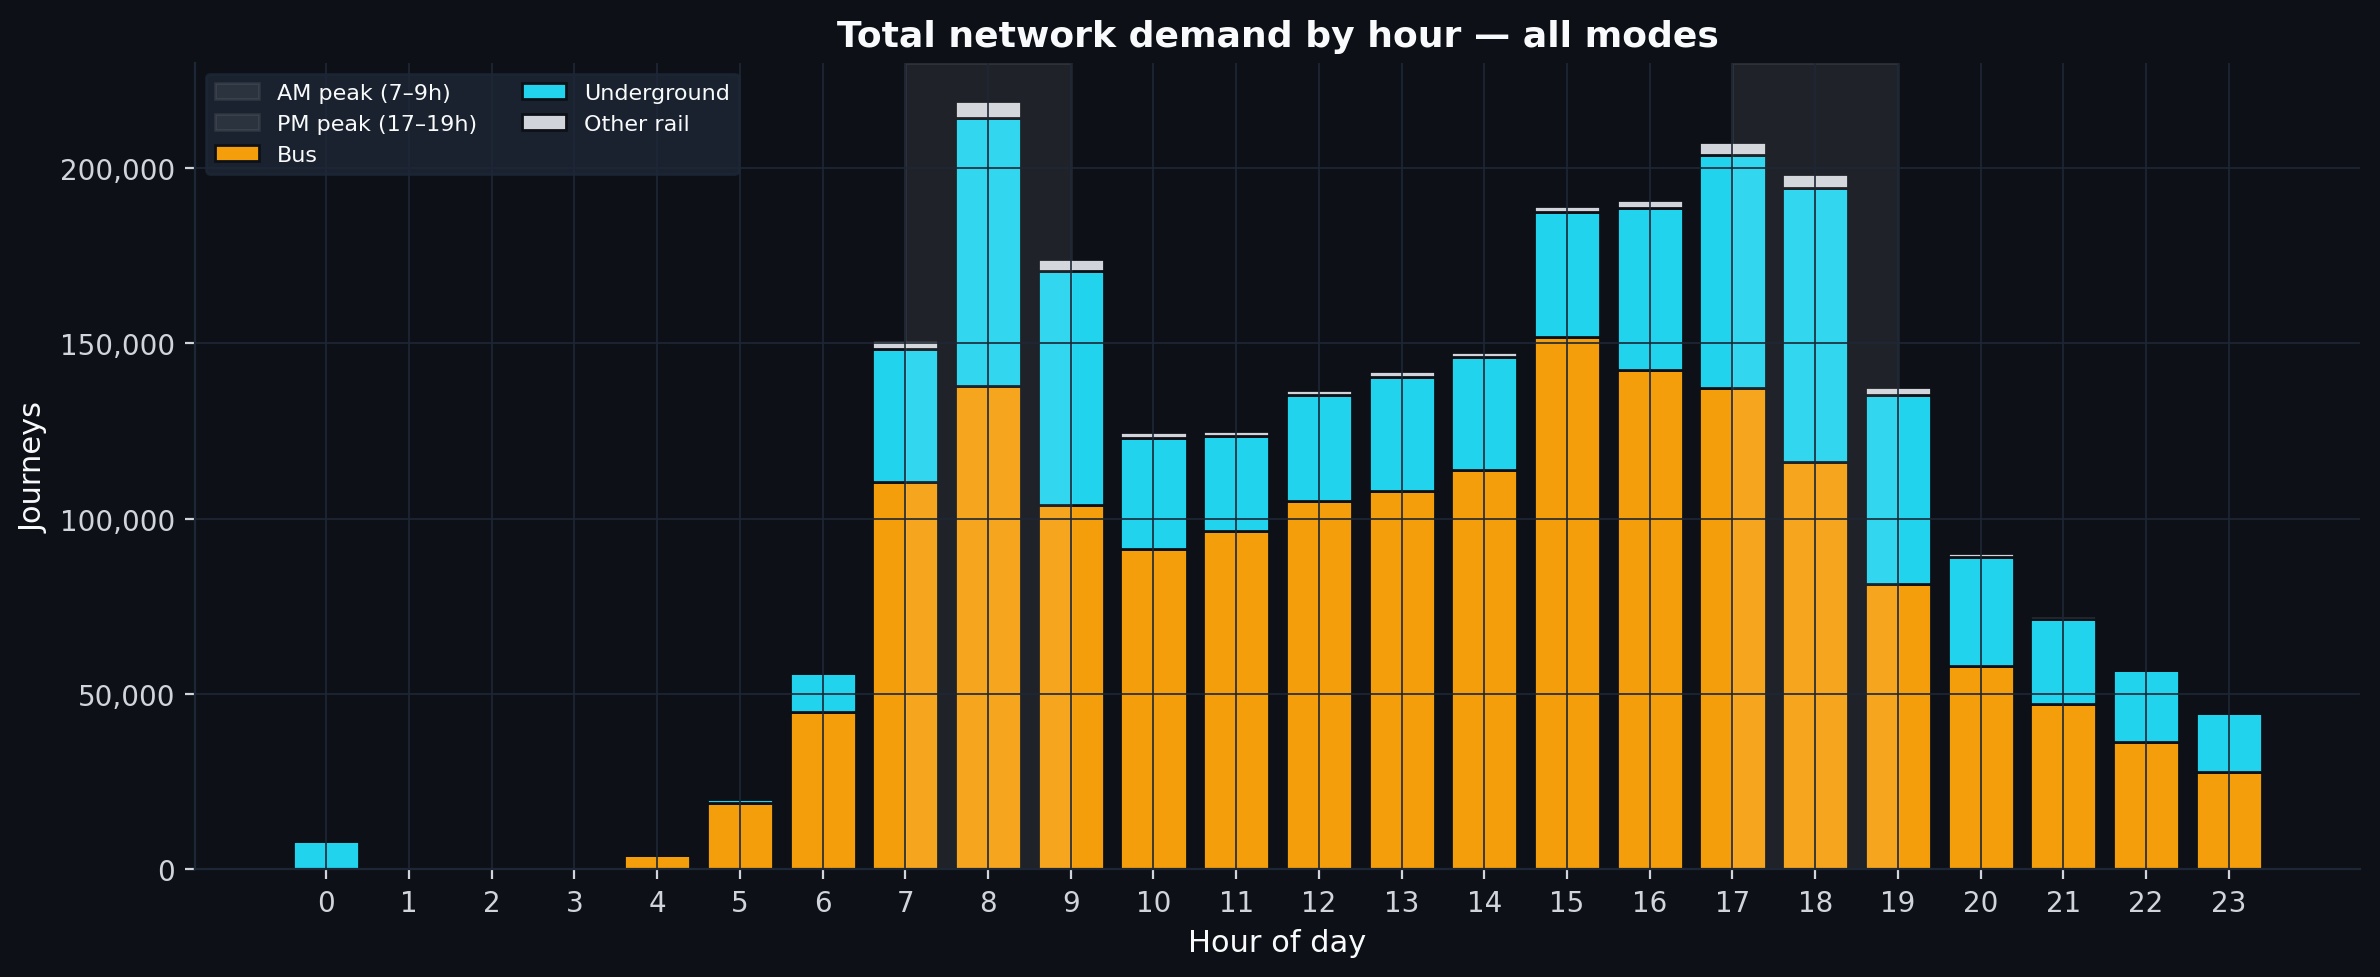
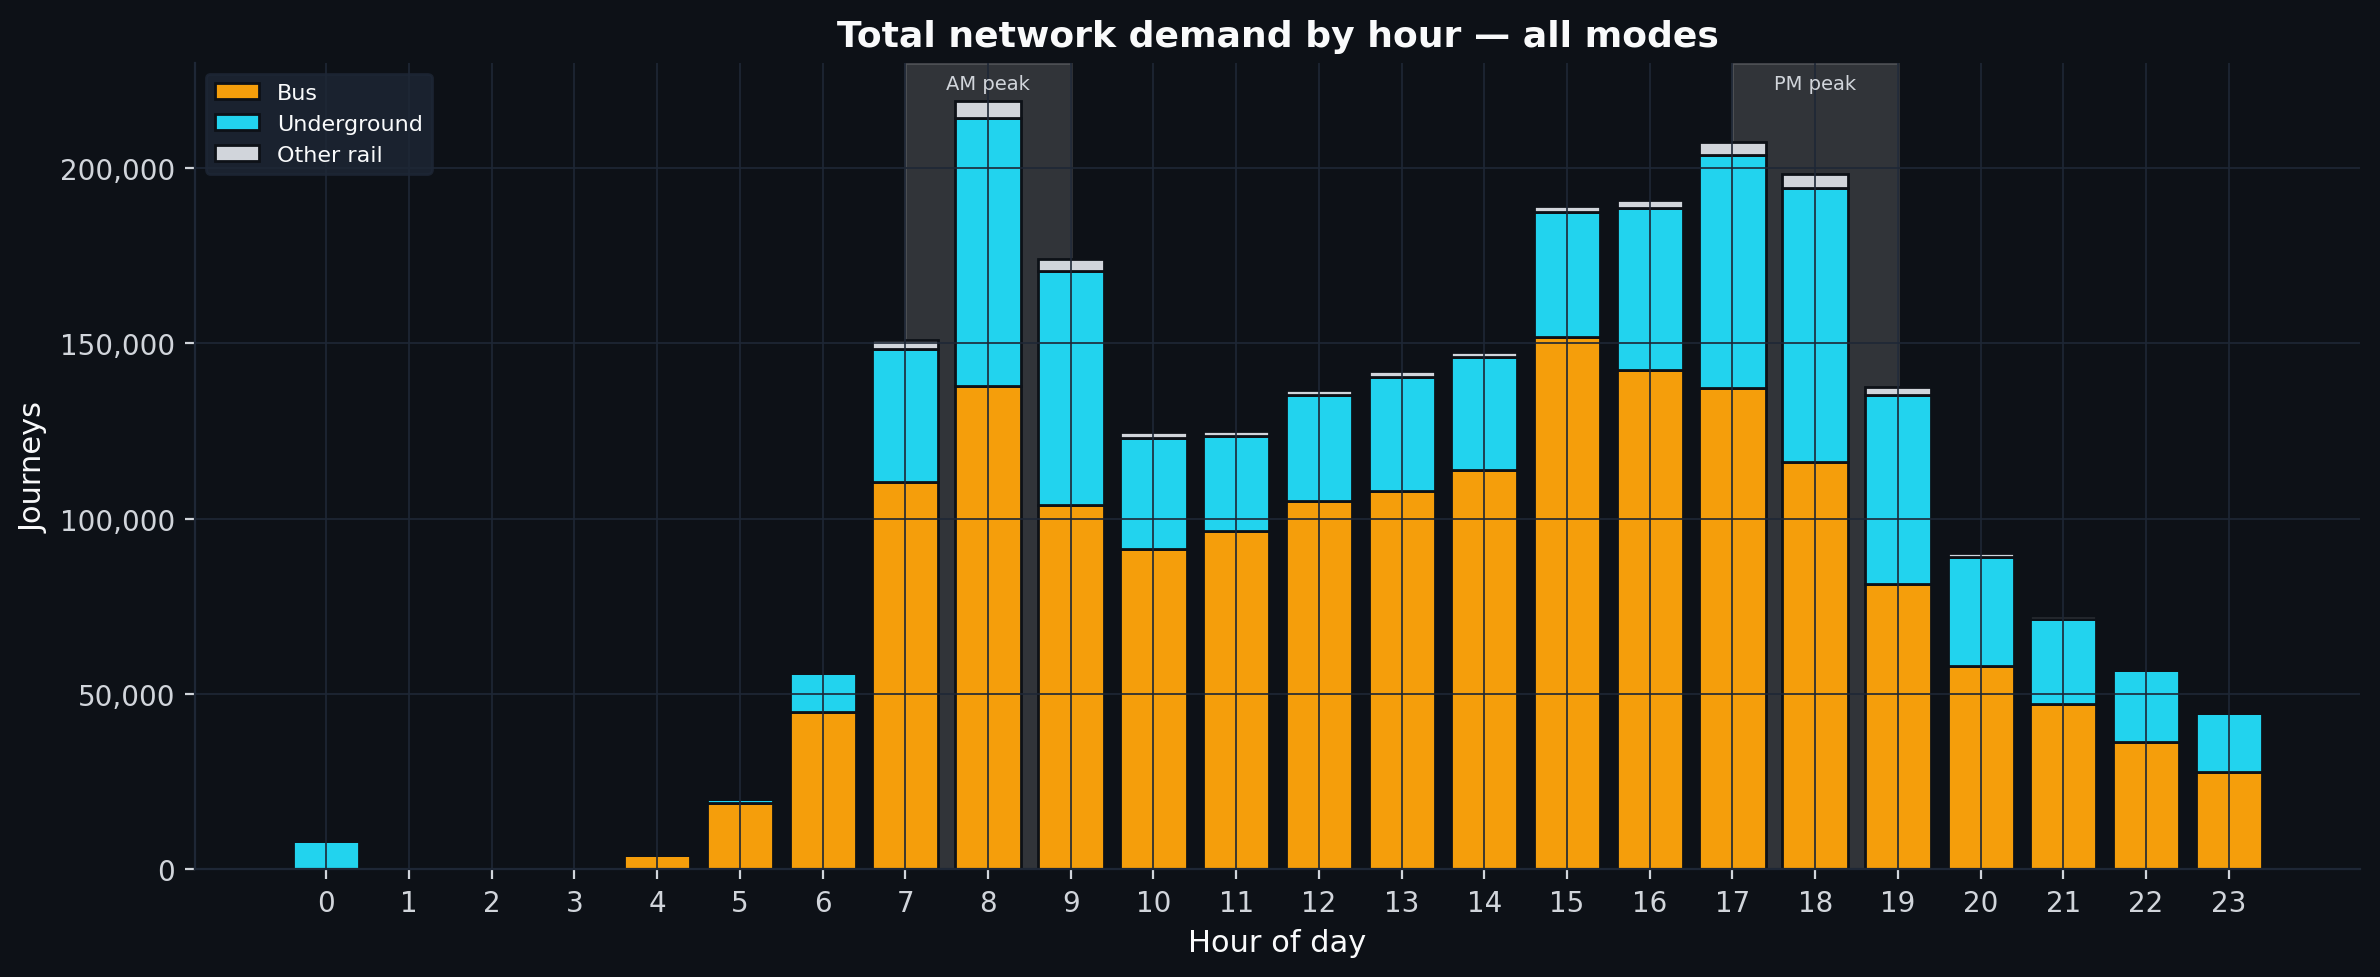
refactor: improve figures and reorganise station charts into step 03

diff --git a/scripts/03_feature_stations.py b/scripts/03_feature_stations.py
@@ -147,56 +147,38 @@ stations.to_csv(FEAT_PATH)
 print(f"\nSaved: {FEAT_PATH.relative_to(ROOT)}  ({len(stations)} rows)")
 
 # ---------------------------------------------------------------------------
-# 1. Top 20 stations by total demand
-# ---------------------------------------------------------------------------
-
-top20 = stations.nlargest(20, "total_demand").sort_values("total_demand")
-
-fig, ax = plt.subplots(figsize=(10, 7))
-bars = ax.barh(top20.index, top20["total_demand"], color=CYAN, height=0.7, edgecolor=BG)
-for bar, val in zip(bars, top20["total_demand"]):
-    ax.text(
-        val + top20["total_demand"].max() * 0.01,
-        bar.get_y() + bar.get_height() / 2,
-        f"{val:,}", va="center", ha="left", fontsize=8, color=FG,
-    )
-ax.set_title("Top 20 stations by total demand — rail / tube")
-ax.set_xlabel("Total journeys (departures + arrivals)")
-ax.xaxis.set_major_formatter(mticker.FuncFormatter(lambda x, _: f"{int(x):,}"))
-ax.set_xlim(0, top20["total_demand"].max() * 1.18)
-fig.tight_layout()
-fig.savefig(FIGURES_DIR / "journey_station_top20.png", dpi=200, bbox_inches="tight", facecolor=BG)
-plt.close(fig)
-print("Saved: journey_station_top20.png")
-
-# ---------------------------------------------------------------------------
-# 2. AM peak departures vs PM peak arrivals — commuter flow scatter
+# 1. AM peak departures vs PM peak arrivals — commuter flow scatter
 # ---------------------------------------------------------------------------
 
 # Only stations with enough demand to be meaningful
 active = stations[stations["total_demand"] >= 200].copy()
 
-# Label the four quadrants
-q_dep = active["am_peak_departures"].median()
-q_arr = active["pm_peak_arrivals"].median()
+# Bubble size scaled to total demand
+size_min, size_max = 20, 600
+d = active["total_demand"]
+active["dot_size"] = size_min + (d - d.min()) / (d.max() - d.min()) * (size_max - size_min)
 
-fig, ax = plt.subplots(figsize=(9, 8))
+lim = max(active["am_peak_departures"].max(), active["pm_peak_arrivals"].max()) * 1.1
+
+fig, ax = plt.subplots(figsize=(9, 9))
+
 ax.scatter(
     active["am_peak_departures"], active["pm_peak_arrivals"],
-    c=active["total_demand"], cmap="YlOrRd",
-    s=30, alpha=0.8, zorder=3, edgecolors="none",
+    c=CYAN, s=active["dot_size"],
+    alpha=0.6, zorder=3, edgecolors=BG, linewidths=0.4,
 )
 
-# label top 15 by total demand
-top_labels = active.nlargest(15, "total_demand")
-for stn, row in top_labels.iterrows():
+# Diagonal reference line (y = x → symmetric AM/PM flow)
+ax.plot([0, lim], [0, lim], color=FAINT, linewidth=1, linestyle="--", zorder=2)
+
+# Labels for top 20 stations by total demand
+for stn, row in active.nlargest(20, "total_demand").iterrows():
     ax.annotate(stn, xy=(row["am_peak_departures"], row["pm_peak_arrivals"]),
                 xytext=(5, 3), textcoords="offset points", fontsize=7, color=FG)
 
-ax.axvline(q_dep, color=FAINT, linewidth=0.8, linestyle="--")
-ax.axhline(q_arr, color=FAINT, linewidth=0.8, linestyle="--")
-
-ax.set_title("AM peak departures vs PM peak arrivals\n(stations with ≥ 200 total journeys)")
+ax.set_xlim(0, lim)
+ax.set_ylim(0, lim)
+ax.set_title("AM peak departures vs PM peak arrivals\n(bubble size = total demand)")
 ax.set_xlabel("AM peak departures")
 ax.set_ylabel("PM peak arrivals")
 ax.xaxis.set_major_formatter(mticker.FuncFormatter(lambda x, _: f"{int(x):,}"))
@@ -207,7 +189,7 @@ plt.close(fig)
 print("Saved: journey_station_am_pm_scatter.png")
 
 # ---------------------------------------------------------------------------
-# 3. Peak ratio distribution
+# 2. Peak ratio distribution
 # ---------------------------------------------------------------------------
 
 pr = stations["peak_ratio"].dropna()
@@ -227,38 +209,66 @@ plt.close(fig)
 print("Saved: journey_station_peak_ratio.png")
 
 # ---------------------------------------------------------------------------
-# 4. Mode share — top 20 stations stacked bars
+# 3. Station imbalance scatter — total departures vs total arrivals
 # ---------------------------------------------------------------------------
 
-share_cols = [f"mode_share_{m.lower().replace(' ', '_')}" for m in MODES
-              if f"mode_share_{m.lower().replace(' ', '_')}" in stations.columns]
+top_origins      = rail["StartStn"].value_counts().head(20)
+top_destinations = rail["EndStation"].value_counts().head(20)
+top_stns         = top_origins.index.union(top_destinations.index)
 
-top20_share = stations.nlargest(20, "total_demand").sort_values("total_demand")
-share_data  = top20_share[share_cols].copy()
-share_data.columns = [c.replace("mode_share_", "").replace("_", " ").title()
-                      for c in share_data.columns]
+stn_df = pd.DataFrame({
+    "departures": top_origins.reindex(top_stns, fill_value=0),
+    "arrivals":   top_destinations.reindex(top_stns, fill_value=0),
+})
 
-fig, ax = plt.subplots(figsize=(10, 7))
-bottom = np.zeros(len(share_data))
+lim = max(stn_df["departures"].max(), stn_df["arrivals"].max()) * 1.05
 
-for col in share_data.columns:
-    raw_key = col.lower().replace(" ", "_")
-    # match back to original mode name for colour lookup
-    mode_key = next((m for m in MODES if m.lower().replace(" ", "_") == raw_key), None)
-    color = MODE_COLORS.get(mode_key, FAINT) if mode_key else FAINT
-    vals = share_data[col].values
-    ax.barh(share_data.index, vals, left=bottom,
-            color=color, edgecolor=BG, height=0.7, label=col)
-    bottom += vals
-
-ax.set_title("Mode share — top 20 stations by total demand")
-ax.set_xlabel("Share of departures")
-ax.xaxis.set_major_formatter(mticker.FuncFormatter(lambda x, _: f"{x:.0%}"))
-ax.legend(fontsize=8, bbox_to_anchor=(1.01, 1), loc="upper left", borderaxespad=0)
+fig, ax = plt.subplots(figsize=(8, 8))
+ax.scatter(stn_df["departures"], stn_df["arrivals"], color=CYAN, s=60, zorder=3)
+ax.plot([0, lim], [0, lim], color=FAINT, linewidth=1, linestyle="--", zorder=2)
+for stn, row in stn_df.iterrows():
+    ax.annotate(stn, xy=(row["departures"], row["arrivals"]),
+                xytext=(5, 3), textcoords="offset points", fontsize=7, color=FG)
+ax.set_xlim(0, lim)
+ax.set_ylim(0, lim)
+ax.set_title("Departures vs arrivals — rail / tube (top stations)")
+ax.set_xlabel("Departures")
+ax.set_ylabel("Arrivals")
+ax.xaxis.set_major_formatter(mticker.FuncFormatter(lambda x, _: f"{int(x):,}"))
+ax.yaxis.set_major_formatter(mticker.FuncFormatter(lambda x, _: f"{int(x):,}"))
 fig.tight_layout()
-fig.savefig(FIGURES_DIR / "journey_station_mode_share.png", dpi=200, bbox_inches="tight", facecolor=BG)
+fig.savefig(FIGURES_DIR / "journey_station_imbalance_scatter.png", dpi=200, bbox_inches="tight", facecolor=BG)
 plt.close(fig)
-print("Saved: journey_station_mode_share.png")
+print("Saved: journey_station_imbalance_scatter.png")
+
+# ---------------------------------------------------------------------------
+# 4. Station imbalance bars — grouped departures vs arrivals top 20
+# ---------------------------------------------------------------------------
+
+top20_stn = (
+    stn_df.assign(total=stn_df["departures"] + stn_df["arrivals"])
+    .nlargest(20, "total")
+    .sort_values("total")
+)
+
+y      = np.arange(len(top20_stn))
+height = 0.35
+
+fig, ax = plt.subplots(figsize=(10, 8))
+ax.barh(y + height / 2, top20_stn["departures"], height=height,
+        color=CYAN,  edgecolor=BG, label="Departures")
+ax.barh(y - height / 2, top20_stn["arrivals"],   height=height,
+        color=GREEN, edgecolor=BG, label="Arrivals")
+ax.set_yticks(y)
+ax.set_yticklabels(top20_stn.index, fontsize=8)
+ax.set_title("Departures vs arrivals — top 20 stations")
+ax.set_xlabel("Journeys")
+ax.xaxis.set_major_formatter(mticker.FuncFormatter(lambda x, _: f"{int(x):,}"))
+ax.legend(fontsize=9)
+fig.tight_layout()
+fig.savefig(FIGURES_DIR / "journey_station_imbalance_bars.png", dpi=200, bbox_inches="tight", facecolor=BG)
+plt.close(fig)
+print("Saved: journey_station_imbalance_bars.png")
 
 # ---------------------------------------------------------------------------
 # Summary

diff --git a/scripts/02_data_clean_plots.py b/scripts/02_data_clean_plots.py
@@ -47,6 +47,8 @@ print(f"Bus  : {len(bus):,} rows")
 print(f"Rail : {len(rail):,} rows")
 print(f"Total: {len(df):,} rows")
 
+# Station imbalance charts are produced by 03_feature_stations.py
+
 apply_theme()
 
 CHART_COLORS = {
@@ -78,14 +80,17 @@ for mode in hour_mode.columns:
            color=CHART_COLORS[mode], edgecolor=BG, width=0.8, label=mode)
     bottom += vals
 
-ax.axvspan(7,  9,  alpha=0.08, color="white", label="AM peak (7–9h)")
-ax.axvspan(17, 19, alpha=0.08, color="white", label="PM peak (17–19h)")
+y_max = bottom.max()
+for start, label in [(7, "AM peak"), (17, "PM peak")]:
+    ax.axvspan(start, start + 2, alpha=0.15, color="white", zorder=0)
+    ax.text(start + 1, y_max * 1.01, label,
+            ha="center", va="bottom", fontsize=7, color=FAINT)
 ax.set_title("Total network demand by hour — all modes")
 ax.set_xlabel("Hour of day")
 ax.set_ylabel("Journeys")
 ax.set_xticks(range(0, 24))
 ax.yaxis.set_major_formatter(mticker.FuncFormatter(lambda x, _: f"{int(x):,}"))
-ax.legend(fontsize=8, loc="upper left", ncol=2)
+ax.legend(fontsize=8, loc="upper left")
 fig.tight_layout()
 fig.savefig(FIGURES_DIR / "journey_by_time.png", dpi=200, bbox_inches="tight", facecolor=BG)
 plt.close(fig)
@@ -122,65 +127,3 @@ fig.savefig(FIGURES_DIR / "journey_by_weekday.png", dpi=200, bbox_inches="tight"
 plt.close(fig)
 print("Saved: journey_by_weekday.png")
 
-# ---------------------------------------------------------------------------
-# Station imbalance — departures vs arrivals (rail only)
-# ---------------------------------------------------------------------------
-
-top_origins      = rail["StartStn"].value_counts().head(20)
-top_destinations = rail["EndStation"].value_counts().head(20)
-top_stations     = top_origins.index.union(top_destinations.index)
-
-station_df = pd.DataFrame({
-    "departures": top_origins.reindex(top_stations, fill_value=0),
-    "arrivals":   top_destinations.reindex(top_stations, fill_value=0),
-})
-
-# Scatter
-fig, ax = plt.subplots(figsize=(8, 8))
-ax.scatter(station_df["departures"], station_df["arrivals"],
-           color=CYAN, s=60, zorder=3)
-
-lim = max(station_df["departures"].max(), station_df["arrivals"].max()) * 1.05
-ax.plot([0, lim], [0, lim], color=FAINT, linewidth=1, linestyle="--", zorder=2)
-
-for station, row in station_df.iterrows():
-    ax.annotate(station, xy=(row["departures"], row["arrivals"]),
-                xytext=(5, 3), textcoords="offset points", fontsize=7, color=FG)
-
-ax.set_xlim(0, lim)
-ax.set_ylim(0, lim)
-ax.set_title("Departures vs arrivals — rail / tube (top stations)")
-ax.set_xlabel("Departures")
-ax.set_ylabel("Arrivals")
-ax.xaxis.set_major_formatter(mticker.FuncFormatter(lambda x, _: f"{int(x):,}"))
-ax.yaxis.set_major_formatter(mticker.FuncFormatter(lambda x, _: f"{int(x):,}"))
-fig.tight_layout()
-fig.savefig(FIGURES_DIR / "journey_station_imbalance_scatter.png", dpi=200, bbox_inches="tight", facecolor=BG)
-plt.close(fig)
-print("Saved: journey_station_imbalance_scatter.png")
-
-# Grouped bars
-top20 = (
-    station_df.assign(total=station_df["departures"] + station_df["arrivals"])
-    .nlargest(20, "total")
-    .sort_values("total")
-)
-
-y = np.arange(len(top20))
-height = 0.35
-
-fig, ax = plt.subplots(figsize=(10, 8))
-ax.barh(y + height / 2, top20["departures"], height=height,
-        color=CYAN,  edgecolor=BG, label="Departures")
-ax.barh(y - height / 2, top20["arrivals"],   height=height,
-        color=GREEN, edgecolor=BG, label="Arrivals")
-ax.set_yticks(y)
-ax.set_yticklabels(top20.index, fontsize=8)
-ax.set_title("Departures vs arrivals — top 20 stations")
-ax.set_xlabel("Journeys")
-ax.xaxis.set_major_formatter(mticker.FuncFormatter(lambda x, _: f"{int(x):,}"))
-ax.legend(fontsize=9)
-fig.tight_layout()
-fig.savefig(FIGURES_DIR / "journey_station_imbalance_bars.png", dpi=200, bbox_inches="tight", facecolor=BG)
-plt.close(fig)
-print("Saved: journey_station_imbalance_bars.png")

diff --git a/scripts/03_feature_od_analysis.py b/scripts/03_feature_od_analysis.py
@@ -22,6 +22,7 @@ Run from the project root:
 from pathlib import Path
 
 import matplotlib.pyplot as plt
+import matplotlib.colors as mcolors
 import matplotlib.ticker as mticker
 import numpy as np
 import pandas as pd
@@ -179,7 +180,8 @@ corridors = (
     merged.sort_values("total", ascending=False)
     .drop_duplicates("corridor_key")
     .dropna(subset=["imbalance"])
-    .nlargest(20, "total")
+    .query("total >= 100")          # exclude low-volume corridors
+    .nlargest(20, "imbalance")      # rank by imbalance, not volume
     .sort_values("imbalance")
 )
 corridors["label"] = corridors["StartStn"] + " ↔ " + corridors["EndStation"]
@@ -189,18 +191,23 @@ print(corridors[["label", "count", "reverse_count", "imbalance"]]
       .rename(columns={"count": "dominant", "reverse_count": "reverse"})
       .to_string(index=False))
 
-colors = [RED if v > 2 else CYAN for v in corridors["imbalance"]]
+# Continuous color gradient CYAN → RED scaled to imbalance range
+import matplotlib.colors as mcolors
+cmap_dir = mcolors.LinearSegmentedColormap.from_list("dir", [CYAN, AMBER, RED])
+norm = plt.Normalize(corridors["imbalance"].min(), corridors["imbalance"].max())
+colors = [cmap_dir(norm(v)) for v in corridors["imbalance"]]
 
 fig, ax = plt.subplots(figsize=(10, 7))
 bars = ax.barh(corridors["label"], corridors["imbalance"],
                color=colors, height=0.7, edgecolor=BG)
-for bar, val in zip(bars, corridors["imbalance"]):
+for bar, row in zip(bars, corridors.itertuples()):
     ax.text(
-        val + 0.05, bar.get_y() + bar.get_height() / 2,
-        f"{val:.1f}×", va="center", ha="left", fontsize=8, color=FG,
+        row.imbalance + 0.05, bar.get_y() + bar.get_height() / 2,
+        f"{row.imbalance:.1f}×  ({row.count} / {row.reverse_count})",
+        va="center", ha="left", fontsize=7.5, color=FG,
     )
 ax.axvline(1, color=FAINT, linewidth=1, linestyle="--")
-ax.set_title("Directional imbalance — top 20 corridors by total demand\n(red = ratio > 2×)")
+ax.set_title("Directional imbalance — top 20 corridors by ratio\n(min. 100 total journeys · dominant / reverse counts shown)")
 ax.set_xlabel("Imbalance ratio  (dominant direction / reverse)")
 fig.tight_layout()
 fig.savefig(FIGURES_DIR / "journey_od_directional.png", dpi=200, bbox_inches="tight", facecolor=BG)
@@ -228,11 +235,13 @@ heatmap_data = (
     .reindex(index=top20_origins, columns=top20_dests, fill_value=0)
 )
 
+dark_cyan = mcolors.LinearSegmentedColormap.from_list("dark_cyan", [BG, CYAN])
+
 fig, ax = plt.subplots(figsize=(12, 10))
 sns.heatmap(
     heatmap_data,
     ax=ax,
-    cmap="YlOrRd",
+    cmap=dark_cyan,
     linewidths=0.3,
     linecolor=BG,
     annot=False,

diff --git a/README.md b/README.md
@@ -84,9 +84,7 @@ Visuals:
 Visuals:
 
 - journeys by time — bus + rail stacked,
-- journeys by weekday — bus + rail stacked,
-- station imbalance scatter — departures vs arrivals per station,
-- station imbalance bars — top 20 stations grouped.
+- journeys by weekday — bus + rail stacked.
 
 ## 03 — Feature Engineering
 
@@ -128,10 +126,10 @@ Visuals:
 
 Visuals:
 
-- top 20 stations by total demand,
 - AM peak departures vs PM peak arrivals scatter,
 - peak ratio distribution across all stations,
-- mode share stacked bars — top 20 stations.
+- station imbalance scatter — total departures vs arrivals,
+- station imbalance bars — top 20 stations grouped.
 
 ## 04 — Baseline Model
 